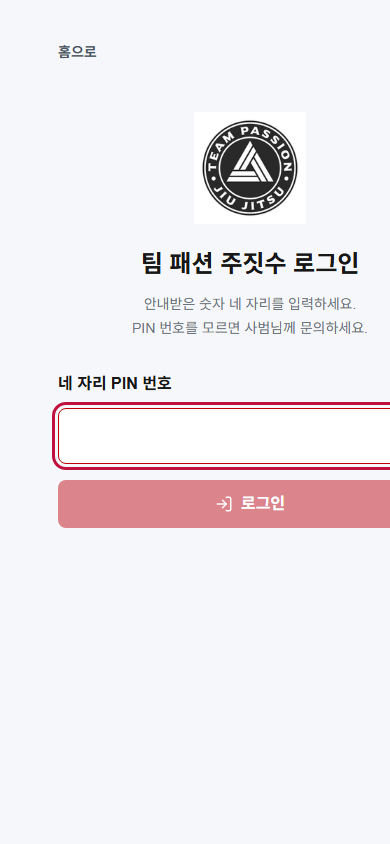
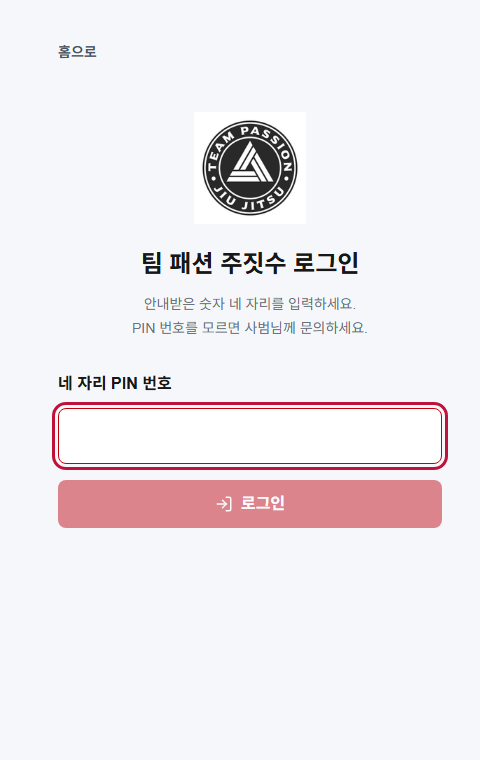
Refine attendance post screenshot sizing

Changed region(s): [[0.0923, 0.1211, 1.0, 0.6961], [0.1231, 0.0303, 0.2462, 0.0908]]

diff --git a/src/styles/global.css b/src/styles/global.css
@@ -319,6 +319,31 @@ footer a:hover { opacity: 0.58; }
 .prose pre code { font-size: inherit; }
 .prose a { text-decoration: underline; text-decoration-thickness: 1px; text-underline-offset: 0.18em; }
 .prose img { width: 100%; height: auto; margin: 2em 0; border-radius: 0.2rem; }
+.prose .product-shot {
+  margin: clamp(2rem, 5vw, 3.25rem) 0;
+}
+.prose .product-shot img {
+  display: block;
+  width: 100%;
+  height: auto;
+  margin: 0;
+  object-fit: contain;
+  border: 1px solid var(--line);
+  border-radius: 0.35rem;
+  background: var(--surface);
+}
+.prose .product-shot-phone {
+  width: min(30rem, 100%);
+  margin-right: auto;
+  margin-left: auto;
+}
+.prose .product-shot figcaption {
+  margin-top: var(--space-2);
+  color: var(--muted);
+  font-size: 0.85rem;
+  line-height: 1.65;
+  text-align: left;
+}
 .prose hr { margin: 3em 0; border: 0; border-top: 1px solid var(--line); }
 .prose table {
   width: 100%;
